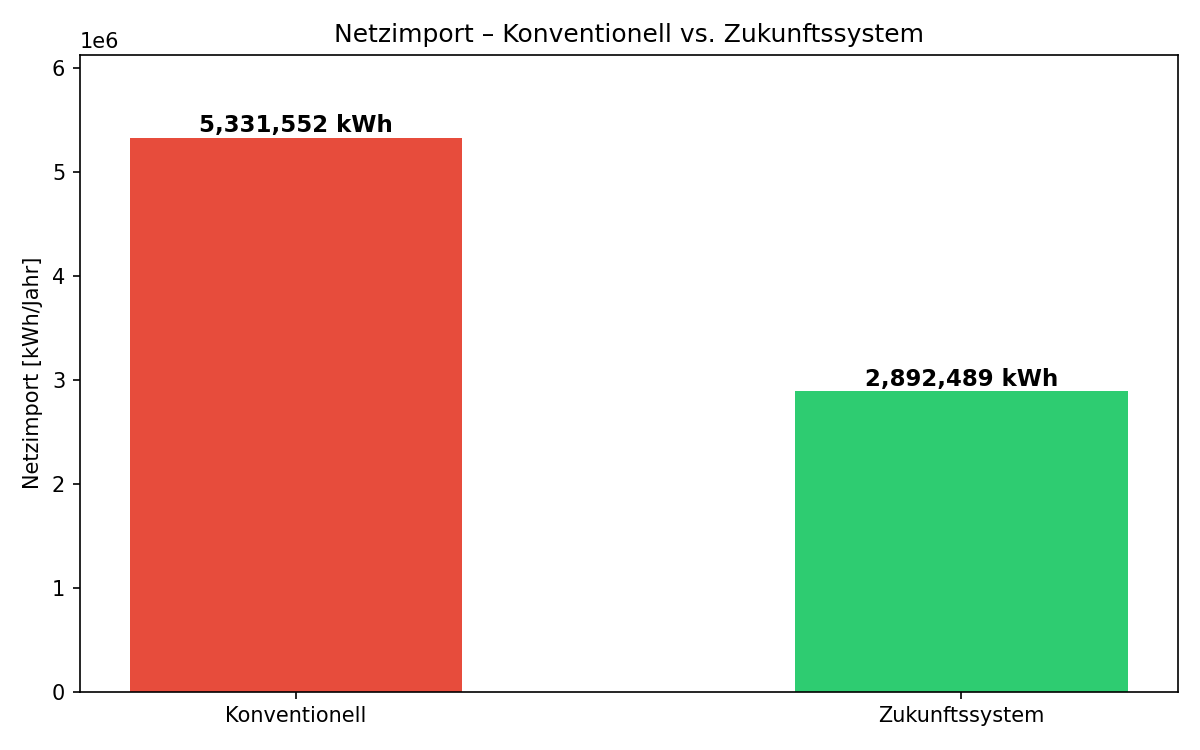
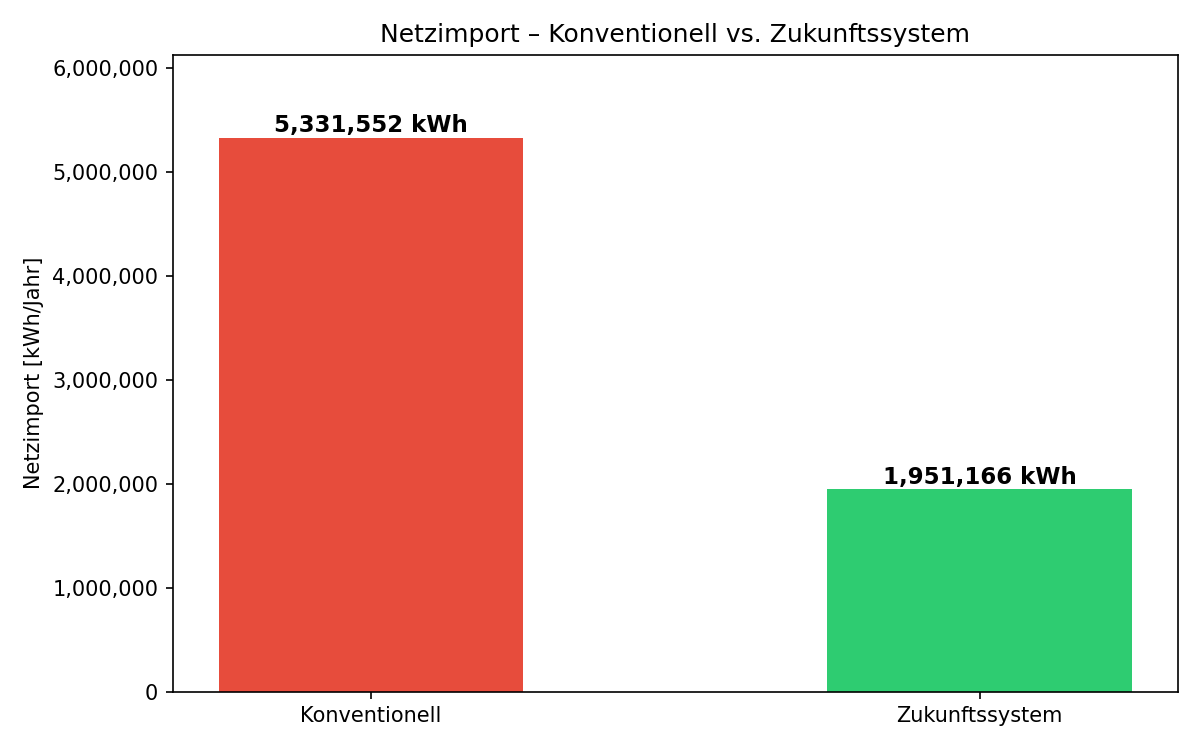
.

diff --git a/vergleich.py b/vergleich.py
@@ -55,32 +55,33 @@ strom_preis = 0.1361
 gas_preis = 0.03
 gaskessel_wirkungsgrad = 0.95
 gas_cost_heat = gas_preis / gaskessel_wirkungsgrad
-capital_cost_netzanschluss = 100  # €/kW*a
 
 n_konv = pypsa.Network()
 n_konv.set_snapshots(zeitindex)
 
 n_konv.add('Bus', name='Strom', carrier='strom')
 n_konv.add('Bus', name='Waerme', carrier='waerme')
+n_konv.add('Bus', name='Gas', carrier='gas')
 
 n_konv.add('Load', name='Stromlast', bus='Strom', p_set=strombedarf)
 n_konv.add('Load', name='Waermelast', bus='Waerme', p_set=waermebedarf)
 
-n_konv.add('Generator', name='Netz_Import', bus='Strom',
-           p_nom=strombedarf.max(), marginal_cost=strom_preis,
-           capital_cost=capital_cost_netzanschluss, carrier='grid')
-n_konv.add('Generator', name='Gaskessel', bus='Waerme',
-           p_nom=waermebedarf.max(), marginal_cost=gas_cost_heat, carrier='gas')
+n_konv.add('Generator', name='Stromimport', bus='Strom',
+           p_nom=np.inf, marginal_cost=strom_preis, carrier='grid')
+n_konv.add('Generator', name='Gasimport', bus='Gas',
+           p_nom=np.inf, marginal_cost=gas_preis, carrier='gas')
+n_konv.add('Link', name='Gaskessel', bus0='Gas', bus1='Waerme',
+           p_nom=waermebedarf.max()/gaskessel_wirkungsgrad,
+           efficiency=gaskessel_wirkungsgrad, carrier='gas')
 
 n_konv.optimize(solver_name='gurobi')
 
 # Ergebnisse konventionell
-konv_strom_netz = n_konv.generators_t.p['Netz_Import'].sum()
-konv_gas_kessel = n_konv.generators_t.p['Gaskessel'].sum()
+konv_strom_netz = n_konv.generators_t.p['Stromimport'].sum()
+konv_gas_versorgung = n_konv.generators_t.p['Gasimport'].sum()
 konv_strom_kosten = konv_strom_netz * strom_preis
-konv_gas_kosten = konv_gas_kessel * gas_cost_heat
-konv_netzanschluss_kosten = capital_cost_netzanschluss * strombedarf.max()
-konv_betriebskosten = konv_strom_kosten + konv_gas_kosten + konv_netzanschluss_kosten
+konv_gas_kosten = konv_gas_versorgung * gas_cost_heat
+konv_betriebskosten = konv_strom_kosten + konv_gas_kosten
 konv_gesamt_jahr = konv_betriebskosten
 
 # ============================================================
@@ -90,7 +91,7 @@ konv_gesamt_jahr = konv_betriebskosten
 print("ZUKUNFTSSYSTEM - Optimierung läuft...")
 
 wind_nennleistung_vergleich = 6000
-netz_import_kosten = 0.1361
+netz_import_kosten = 0.16
 
 wind_p_max_pu = (windleistung / wind_nennleistung_vergleich).clip(lower=0, upper=1)
 
@@ -120,7 +121,7 @@ n_zuk.add('Store', name='Waermespeicher', bus='Waerme',
           standing_loss=0.005, e_cyclic=True, lifetime=25)
 
 n_zuk.add('Generator', name='Netz_Import', bus='Strom',
-          p_nom=np.inf, marginal_cost=netz_import_kosten, carrier='grid')
+          p_nom_extendable=True, marginal_cost=netz_import_kosten, carrier='grid')
 
 n_zuk.optimize(solver_name='gurobi')
 
@@ -148,7 +149,7 @@ print("-" * 60)
 print(f"Netzimport [kWh]:              {konv_strom_netz:>14,.0f} {zuk_strom_import:>14,.0f}")
 print(f"Stromimportkosten [€/a]:       {konv_strom_kosten:>14,.2f} {zuk_kosten_import:>14,.2f}")
 print(f"Gaskosten [€/a]:               {konv_gas_kosten:>14,.2f} {'---':>14s}")
-print(f"Netzanschlusskosten [€/a]:     {konv_netzanschluss_kosten:>14,.2f} {'---':>14s}")
+print(f"Betriebskosten [€/a]:          {konv_betriebskosten:>14,.2f} {zuk_betriebskosten:>14,.2f}")
 print(f"Investitionskosten [€/a]:      {'---':>14s} {zuk_invest_year:>14,.2f}")
 print(f"Gesamtkosten [€/a]:            {konv_gesamt_jahr:>14,.2f} {zuk_gesamt_jahr:>14,.2f}")
 
@@ -257,10 +258,10 @@ fig, ax = plt.subplots(figsize=(10, 6))
 x = np.arange(2)
 breite = 0.5
 
-# Konventionell: Strom + Gas + Netzanschluss
-konv_stack = [konv_strom_kosten, konv_gas_kosten, konv_netzanschluss_kosten, 0]
+# Konventionell: Strom + Gas (keine Invest)
+konv_stack = [konv_strom_kosten, konv_gas_kosten, 0]
 # Zukunft: Stromimport + Invest
-zuk_stack = [zuk_kosten_import, 0, 0, zuk_invest_year]
+zuk_stack = [zuk_kosten_import, 0, zuk_invest_year]
 
 p1 = ax.bar(x, [konv_stack[0], zuk_stack[0]], breite, color='#e74c3c', label='Stromkosten')
 p2 = ax.bar(x, [konv_stack[1], zuk_stack[1]], breite,
@@ -268,9 +269,6 @@ p2 = ax.bar(x, [konv_stack[1], zuk_stack[1]], breite,
             color='#f39c12', label='Gaskosten')
 p3 = ax.bar(x, [konv_stack[2], zuk_stack[2]], breite,
             bottom=[konv_stack[0]+konv_stack[1], zuk_stack[0]+zuk_stack[1]],
-            color='#9b59b6', label='Netzanschlusskosten')
-p4 = ax.bar(x, [konv_stack[3], zuk_stack[3]], breite,
-            bottom=[konv_stack[0]+konv_stack[1]+konv_stack[2], zuk_stack[0]+zuk_stack[1]+zuk_stack[2]],
             color='#3498db', label='Investitionskosten (Annuität)')
 
 # Gesamtwerte oben anzeigen

diff --git a/gh_konventionell.py b/gh_konventionell.py
@@ -35,10 +35,6 @@ gas_preis = 0.03                            # €/kWh
 gaskessel_wirkungsgrad = 0.95               # 95%
 gas_cost_heat = gas_preis/gaskessel_wirkungsgrad
 
-#Kosten Netzanschluss
-capital_cost_netzanschluss =100  # €/kW*a
-
-
 # ============================================================
 # 3. Daten vorbereiten
 # ============================================================
@@ -84,16 +80,15 @@ network.add('Load', name='Waermelast', bus='Waerme', p_set=waermebedarf)
 
 # Netzstrom (Import aus öffentlichem Netz)
 network.add('Generator',
-            name='Netz_Import',
+            name='Stromimport',
             bus='Strom',
-            p_nom = strombedarf.max(),
+            p_nom = np.inf,
             marginal_cost=strom_preis,
-            capital_cost=capital_cost_netzanschluss,
             carrier='grid')
 
 # Gasversorgung
 network.add('Generator',
-            name='Gasversorgung',
+            name='Gasimport',
             bus='Gas',
             p_nom = np.inf,
             marginal_cost=gas_preis,
@@ -102,8 +97,8 @@ network.add('Generator',
 # Gaskessel
 network.add("Link",
             name="Gaskessel",
-            bus0="Gas",        # Input: Gas
-            bus1="Waerme",     # Output: Wärme
+            bus0="Gas",        
+            bus1="Waerme",     
             p_nom=waermebedarf.max()/gaskessel_wirkungsgrad,
             efficiency=gaskessel_wirkungsgrad,
             carrier="gas")
@@ -124,33 +119,30 @@ print("=" * 80)
 
 # Nennleisungen 
 p_nom_gaskessel = waermebedarf.max()/gaskessel_wirkungsgrad
-p_nom_netz_import = strombedarf.max()
-print(f"\nNennleistung Gaskessel:     {p_nom_gaskessel:>12.2f} kW")
-print(f"Nennleistung Netzanschluss: {p_nom_netz_import:>12.2f} kW")
+print(f"\nNennleistung Gaskessel: {p_nom_gaskessel:>12.2f} kW")
+
 
 # Strombilanz
 print("\n--- Strombilanz ---")
-strom_netz = network.generators_t.p['Netz_Import'].sum()
+strom_netz = network.generators_t.p['Stromimport'].sum()
 strom_last = network.loads_t.p['Stromlast'].sum()
-print(f"Netzbezug:        {strom_netz:>12.2f} kWh")
+print(f"Netzimport:       {strom_netz:>12.2f} kWh")
 print(f"Stromlast:        {strom_last:>12.2f} kWh")
 
 # Wärmebilanz
 print("\n--- Wärmebilanz ---")
-gas_versorgung = network.generators_t.p['Gasversorgung'].sum()
+gas_versorgung = network.generators_t.p['Gasimport'].sum()
 
 waerme_last = network.loads_t.p['Waermelast'].sum()
-print(f"Gasversorgung:    {gas_versorgung:>12.2f} kWh")
-print(f"Wärmelast:        {waerme_last:>12.2f} kWh")
+print(f"Gasimport:    {gas_versorgung:>12.2f} kWh")
+print(f"Wärmelast:    {waerme_last:>12.2f} kWh")
 
 # Betriebskosten
 print("\n--- Betriebskosten pro Jahr ---")
 kosten_strom = strom_netz * strom_preis
 kosten_gas = gas_versorgung * gas_cost_heat
-kosten_netzanschluss = capital_cost_netzanschluss * p_nom_netz_import
-operational_costs = round(kosten_strom + kosten_gas + kosten_netzanschluss, 2)
+operational_costs = round(kosten_strom + kosten_gas, 2)
 print(f"Stromkosten:          {kosten_strom:>12.2f} €")
 print(f"Gaskosten:            {kosten_gas:>12.2f} €")
-print(f"Netzanschlusskosten:  {kosten_netzanschluss:>12.2f} €")
 print(f"Betriebskosten:       {operational_costs:>12.2f} €")
 print(f"\n")

diff --git a/Zukunftssystem.py b/Zukunftssystem.py
@@ -60,8 +60,8 @@ capital_cost_waermespeicher = 5              # €/kWh/a als Annuität
 waermespeicher_lifetime = 25                # Jahre
 waermespeicher_standing_loss = 0.005         # Verlust pro Stunde
 
-# Netzinteraktion
-netz_import_kosten = 0.1361     # €/kWh
+# Stromnetz
+netz_import_kosten = 0.1361   # €/kWh
 
 # ============================================================
 # 3. Daten vorbereiten
@@ -72,6 +72,7 @@ zeitindex = df_heizlast.index.intersection(df_strombedarf.index)
 zeitindex = zeitindex.intersection(df_cop.index)
 zeitindex = zeitindex.intersection(df_wind.index)
 
+print(f"\n")
 print(f"Simulationszeitraum: {zeitindex[0]} bis {zeitindex[-1]}")
 print(f"Anzahl Zeitschritte: {len(zeitindex)}")
 
@@ -91,6 +92,7 @@ print(f"Maximale Heizlast:      {waermebedarf.max():.2f} kW")
 print(f"Mittlerer Strombedarf:  {strombedarf.mean():.2f} kW")
 print(f"Maximaler Strombedarf:  {strombedarf.max():.2f} kW")
 print(f"Mittlerer COP:          {cop_zeitreihe.mean():.2f}")
+print(f"\n")
 
 # ============================================================
 # 4. PyPSA-Netzwerk erstellen
@@ -153,7 +155,7 @@ network.add('Store',
 network.add('Generator',
             name='Netz_Import',
             bus='Strom',
-            p_nom=np.inf,
+            p_nom_extendable=True,
             marginal_cost=netz_import_kosten,
             carrier='grid')
 
@@ -271,3 +273,5 @@ print(f'Nur {windenergie_genutzt_prozent:.2f} % der möglichen Energie der Windk
 print("\n" + "=" * 80)
 print("Optimierung erfolgreich abgeschlossen!")
 print("=" * 80)
+print(f"\n")
+
